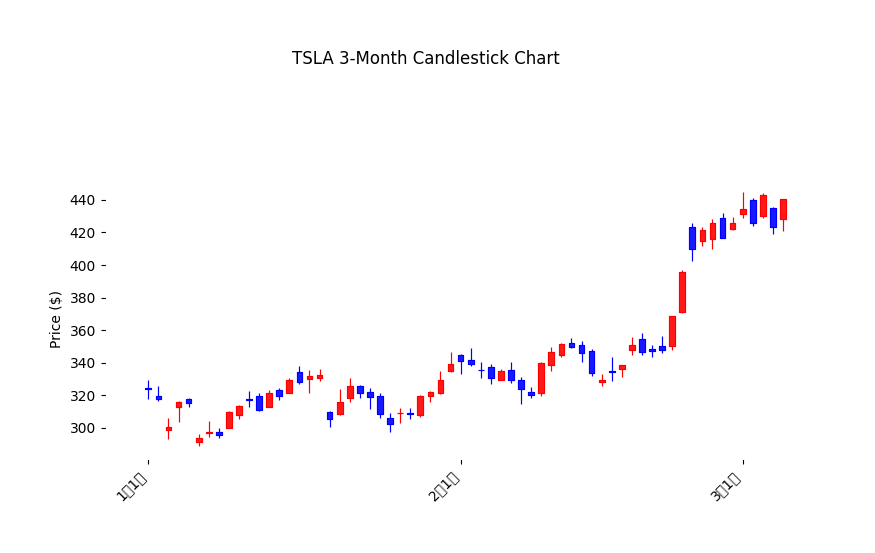
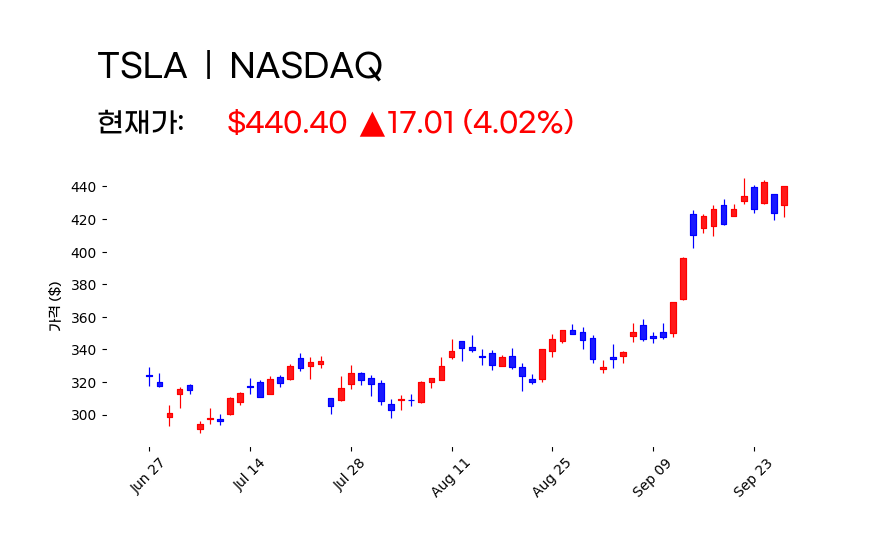
globalstock

diff --git a/bots/globalstock.py b/bots/globalstock.py
@@ -1,51 +1,105 @@
 import yfinance as yf
 import mplfinance as mpf
 import matplotlib.pyplot as plt
-import matplotlib.dates as mdates
 import matplotlib.font_manager as fm
+import os
 
 def save_tsla_candle_chart_3mo(filename="tsla_3mo_chart.png"):
-    # 한글 폰트 설정 (윈도우 예시)
-    font_path = "C:/Windows/Fonts/malgun.ttf"  # 윈도우용, 환경에 맞게 변경하세요
-    font_prop = fm.FontProperties(fname=font_path).get_name()
-    plt.rcParams['font.family'] = font_prop
+    # 폰트 경로 (상위 폴더 res 내 GmarketSansMedium.otf)
+    font_path = os.path.abspath(os.path.join(os.path.dirname(__file__), '..', 'res', 'GmarketSansMedium.otf'))
+    if not os.path.isfile(font_path):
+        raise FileNotFoundError(f"폰트 파일을 찾을 수 없습니다: {font_path}")
 
-    # 데이터 가져오기
+    font_prop = fm.FontProperties(fname=font_path)
+    font_name = font_prop.get_name()
+
+    plt.rcParams['font.family'] = font_name
+    plt.rcParams['font.sans-serif'] = [font_name]
+    plt.rcParams['axes.unicode_minus'] = False  # 마이너스 기호 깨짐 방지
+
     tsla = yf.Ticker("TSLA")
     data = tsla.history(period="3mo", interval="1d")
     if data.empty:
-        raise ValueError("데이터를 가져오지 못했습니다.")
+        raise ValueError("TSLA 데이터를 가져오지 못했습니다.")
 
-    # 스타일 설정
+    info = tsla.info
+    exchange_raw = info.get('exchange', 'Unknown')
+    exchange_map = {
+        "NMS": "NASDAQ",
+        "NYQ": "NYSE",
+        "OTC": "OTC",
+        "PNK": "OTC-PINK"
+    }
+    exchange_display = exchange_map.get(exchange_raw, exchange_raw)
+
+    latest_close = data['Close'].iloc[-1]
+    previous_close = data['Close'].iloc[-2]
+    change = latest_close - previous_close
+    change_pct = (change / previous_close) * 100
+
+    stock_text = f"TSLA  |  {exchange_display}"
+    price_label = "현재가: "
+    price_value = f"${latest_close:.2f}"
+    change_value = f"{abs(change):.2f} ({abs(change_pct):.2f}%)"
+
+    price_color = 'red' if change >= 0 else 'blue'
+    arrow = ' ▲' if change >= 0 else ' ▼'
+    arrow_color = price_color
+
     mc = mpf.make_marketcolors(up='red', down='blue', edge='inherit', wick='inherit', volume='gray')
-    style = mpf.make_mpf_style(marketcolors=mc, gridstyle='', facecolor='white', edgecolor='white')
+    style = mpf.make_mpf_style(
+        marketcolors=mc,
+        gridstyle='',
+        facecolor='white',
+        edgecolor='white'
+    )
 
-    # 차트 생성
-    fig, axes = mpf.plot(data, type='candle', style=style, title='TSLA 3-Month Candlestick Chart',
-                         ylabel='Price ($)', volume=False, returnfig=True, figsize=(10,4))
+    fig, axes = mpf.plot(
+        data,
+        type='candle',
+        style=style,
+        ylabel='가격 ($)',
+        volume=False,
+        returnfig=True,
+        figsize=(10, 4),
+        title=''
+    )
 
-    # 차트 아래로 내리기
+    # 차트 위치 약간 아래로 내리면서 왼쪽으로 더 붙이기 (x0값 줄임)
     for ax in fig.axes:
         pos = ax.get_position()
-        ax.set_position([pos.x0, pos.y0 - 0.1, pos.width, pos.height])
+        ax.set_position([pos.x0 - 0.08, pos.y0 - 0.1, pos.width, pos.height])
 
-    ax = axes[0]  # 캔들 차트 x축
+    ax = axes[0]
+    ax.set_ylabel("가격 ($)", fontproperties=font_prop)
 
-    # X축 틱 설정 - 매월 1일만
-    month_start_locator = mdates.MonthLocator(bymonthday=1)
-    ax.xaxis.set_major_locator(month_start_locator)
+    # 텍스트 위치 설정
+    x_start = 0.01
+    y_pos_first_line = 0.97
+    y_pos_second_line = 0.82
+    fontsize_first_line = 22
+    fontsize_second_line = 20
 
-    # 한글 월일 포맷터
-    def korean_date_formatter(x, pos=None):
-        dt = mdates.num2date(x)
-        return f"{dt.month}월{dt.day}일"
+    # 첫 줄: 종목명 + 거래소 (검정)
+    fig.text(x_start, y_pos_first_line, stock_text, fontsize=fontsize_first_line,
+             ha='left', va='top', color='black', fontproperties=font_prop)
 
-    ax.xaxis.set_major_formatter(plt.FuncFormatter(korean_date_formatter))
+    # 두 번째 줄: 현재가, 등락 수치 및 화살표
+    fig.text(x_start, y_pos_second_line, price_label, fontsize=fontsize_second_line,
+             ha='left', va='top', color='black', fontproperties=font_prop)
 
-    # 틱 레이블 45도 회전
-    plt.setp(ax.get_xticklabels(), rotation=45, ha='right')
+    x_price = x_start + 0.13
+    fig.text(x_price, y_pos_second_line, price_value, fontsize=fontsize_second_line,
+             ha='left', va='top', color=price_color, fontproperties=font_prop)
 
-    # 저장
+    x_arrow = x_price + 0.12
+    fig.text(x_arrow, y_pos_second_line, arrow, fontsize=fontsize_second_line + 4,
+             ha='left', va='top', color=arrow_color, fontproperties=font_prop)
+
+    x_change_value = x_arrow + 0.04
+    fig.text(x_change_value, y_pos_second_line, change_value, fontsize=fontsize_second_line,
+             ha='left', va='top', color=price_color, fontproperties=font_prop)
+
     fig.savefig(filename, bbox_inches='tight', pad_inches=0.5)
     plt.close(fig)
 
